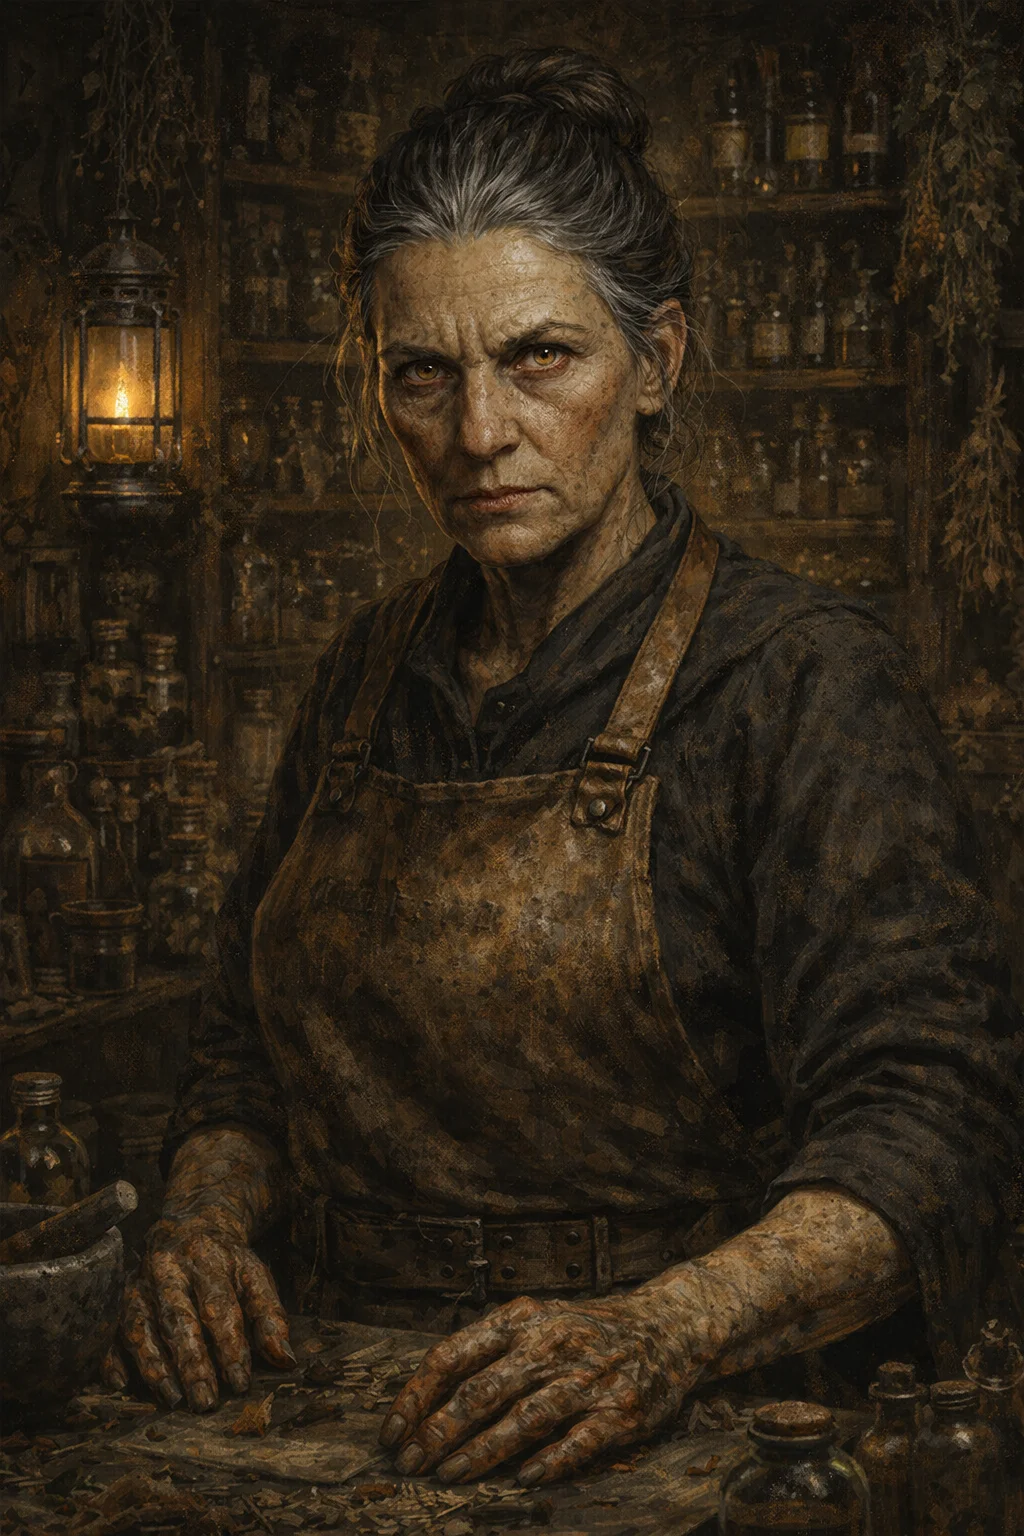
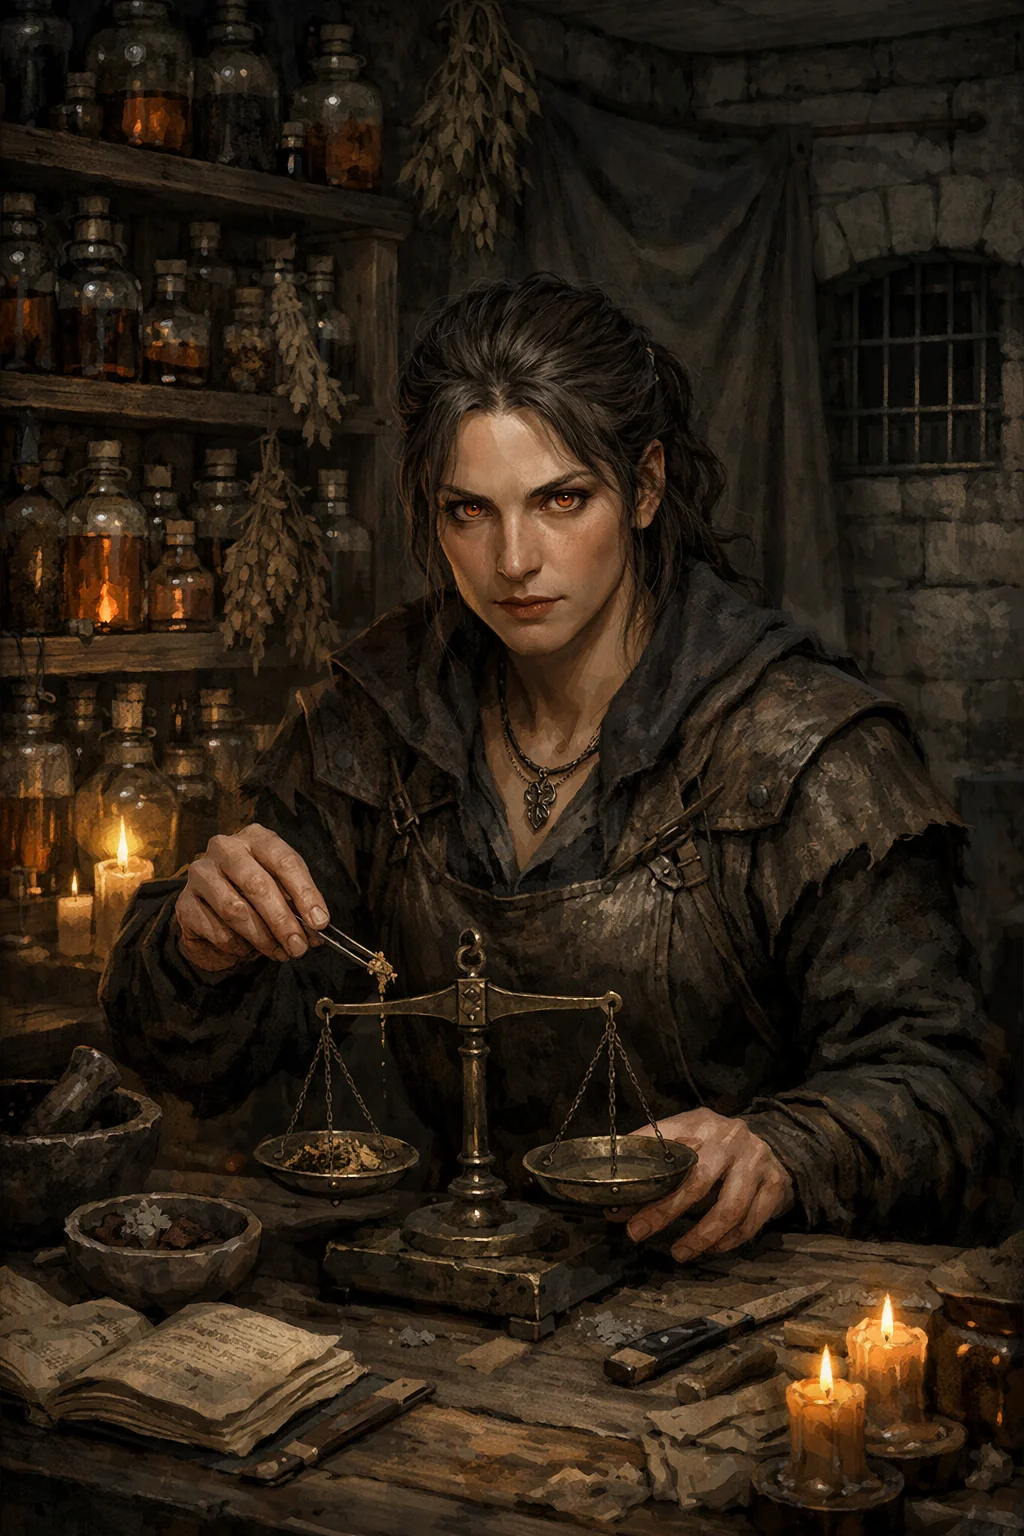
Add Session 37 content and supporting entries
Session 37 (The Choice After) added to data.json with DM-side content
stripped (Aral-Vyn Response Clock, Red-Vision Trigger mechanics, the
DM-Side: Seraphine section, roll specifics, Quick Reference fields).

New entries:
- NPCs: Rosa Solt (Crownfall region)
- Items: Vein-Loom Robe, The Arterial Texts
- Lore: Aethranox and Vaelumbra, The Greenwarders

Image refreshes:
- Replaced stale April portraits (Senna, Sister Varen, The Docent)
  with current vault versions
- Seraphine Vale.webp removed; Seraphine - Returned.webp added
  (post-Right-Hand portrait)
- New images: Arterial Texts, Arterial Texts Vision, Fursen's Vision,
  Rosa Solt, Vein-Loom Robe
- Two Dragons mural embedded on Aethranox and Vaelumbra Lore page

JS / CSS:
- wiki-links.js: strip trailing punctuation from first-name aliases
  (so "Galheran, the Unmoved" auto-links on "Galheran")
- bonds.js: REP_IMAGE_MAP entries for Galheran and Seraphine
- style.css: new .mural-image rule for landscape images in toc-image-wrapper

Reputation tracker:
- Rosa Solt added for Sol (Neutral), Fursen (Cordial), Teldryn (Cordial)
- Flame of Passion: Fursen -1000 (Refuge vision aftermath, S37)

Map data:
- Bloomhollow + Thornwall markers, party location, corrected coords

diff --git a/src/modules/wiki-links.js b/src/modules/wiki-links.js
@@ -11,14 +11,23 @@ export function buildWikiIndex() {
     // Categories where first names should also be indexed
     const firstNameCategories = ['Party', 'NPCs', 'Sovereigns'];
 
+    // Helper: extract a clean first-name alias from a title.
+    // Strips trailing punctuation (e.g. "Galheran, the Unmoved" → "Galheran").
+    const firstNameFromTitle = (title) => {
+        const parts = title.split(' ');
+        if (parts.length < 2 || parts[0] === 'The') return null;
+        const cleaned = parts[0].replace(/[^A-Za-z'\-]+$/, '');
+        if (cleaned.length <= 2) return null;
+        return cleaned;
+    };
+
     // First pass: collect all first names to detect duplicates
     const firstNameCount = {};
     for (const [categoryName, categoryData] of Object.entries(state.data)) {
         if (firstNameCategories.includes(categoryName)) {
             for (const item of categoryData.items) {
-                const parts = item.title.split(' ');
-                if (parts.length >= 2 && parts[0] !== 'The' && parts[0].length > 2) {
-                    const firstName = parts[0];
+                const firstName = firstNameFromTitle(item.title);
+                if (firstName) {
                     firstNameCount[firstName] = (firstNameCount[firstName] || 0) + 1;
                 }
             }
@@ -36,9 +45,8 @@ export function buildWikiIndex() {
 
             // For Party and NPCs, also index first name as alias (only if unique)
             if (firstNameCategories.includes(categoryName)) {
-                const parts = item.title.split(' ');
-                if (parts.length >= 2 && parts[0] !== 'The' && parts[0].length > 2) {
-                    const firstName = parts[0];
+                const firstName = firstNameFromTitle(item.title);
+                if (firstName) {
                     // Only add if first name is unique (not shared by multiple characters)
                     if (firstName !== item.title && firstNameCount[firstName] === 1) {
                         wikiIndex.push({

diff --git a/style.css b/style.css
@@ -4102,6 +4102,14 @@ body {
     height: auto;
 }
 
+/* Landscape images (murals, scene art) — match the TOC column width
+   instead of the portrait cap. Add class="mural-image" to opt in. */
+.toc-image-wrapper img.mural-image {
+    max-width: none;
+    width: 100%;
+    flex: 1;
+}
+
 .toc-image-wrapper .npc-portrait img {
     width: 100%;
     height: auto;

diff --git a/src/modules/bonds.js b/src/modules/bonds.js
@@ -25,7 +25,9 @@ const REP_IMAGE_MAP = {
   "Kael's Echo": "Kael",
   "Aedwynn the Maker": "Aedwynn Fragment - Golden Tree",
   "Talaris Bloomrend": "Talaris Bloomrend the Verdant King",
-  "The Church of Mareatha": null
+  "The Church of Mareatha": null,
+  "Galheran the Unmoved": "Galheran",
+  "Seraphine Vale": "Seraphine - Returned"
 };
 
 // Character display names